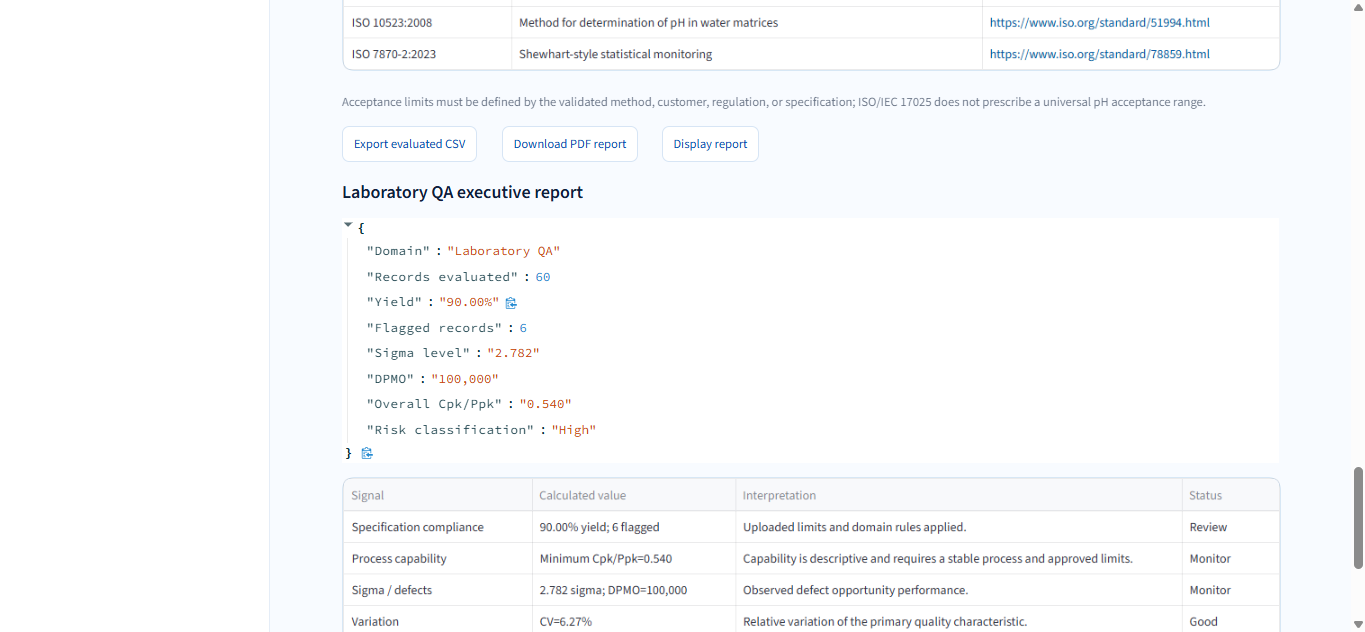
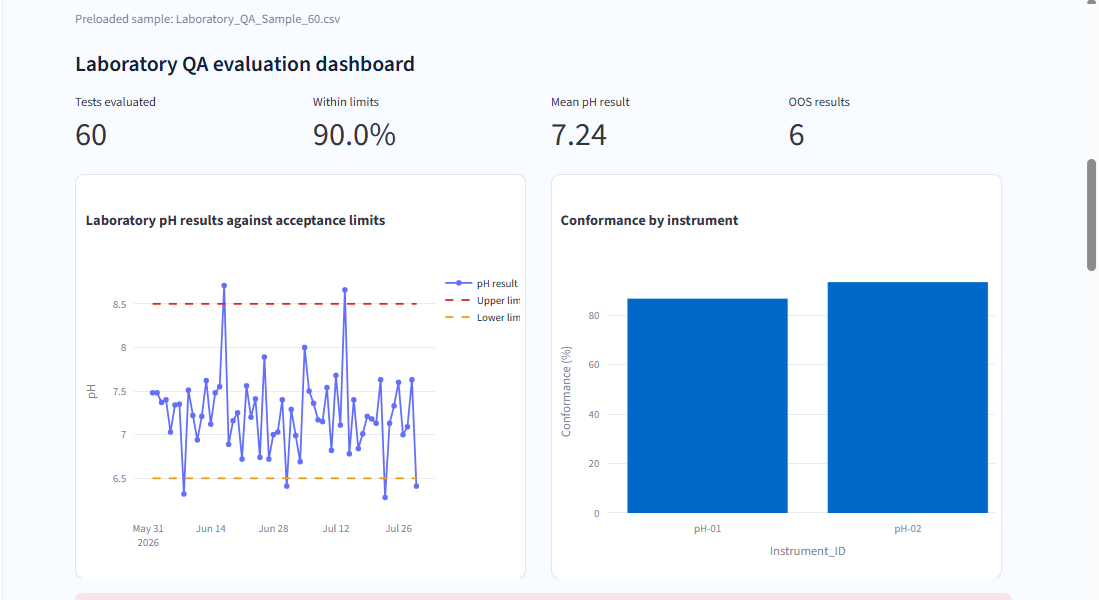
Replace outdated laboratory report screenshot

diff --git a/README.md b/README.md
@@ -135,11 +135,11 @@ Evaluate dimensional inspection results, tolerance compliance, capability, proce
 
 ![DQIP manufacturing dashboard](docs/software-manufacturing-dashboard.png)
 
-### Domain-Specific Executive Reporting
+### Laboratory QA Evaluation Dashboard
 
-Generate a report whose title, evidence, quality characteristic, interpretation and corrective measures match the selected domain.
+Evaluate laboratory pH results against acceptance limits, monitor out-of-specification results and compare conformance across instruments.
 
-![DQIP domain report](docs/software-domain-report.png)
+![DQIP Laboratory QA evaluation dashboard](docs/software-domain-report.png)
 
 ---
 
